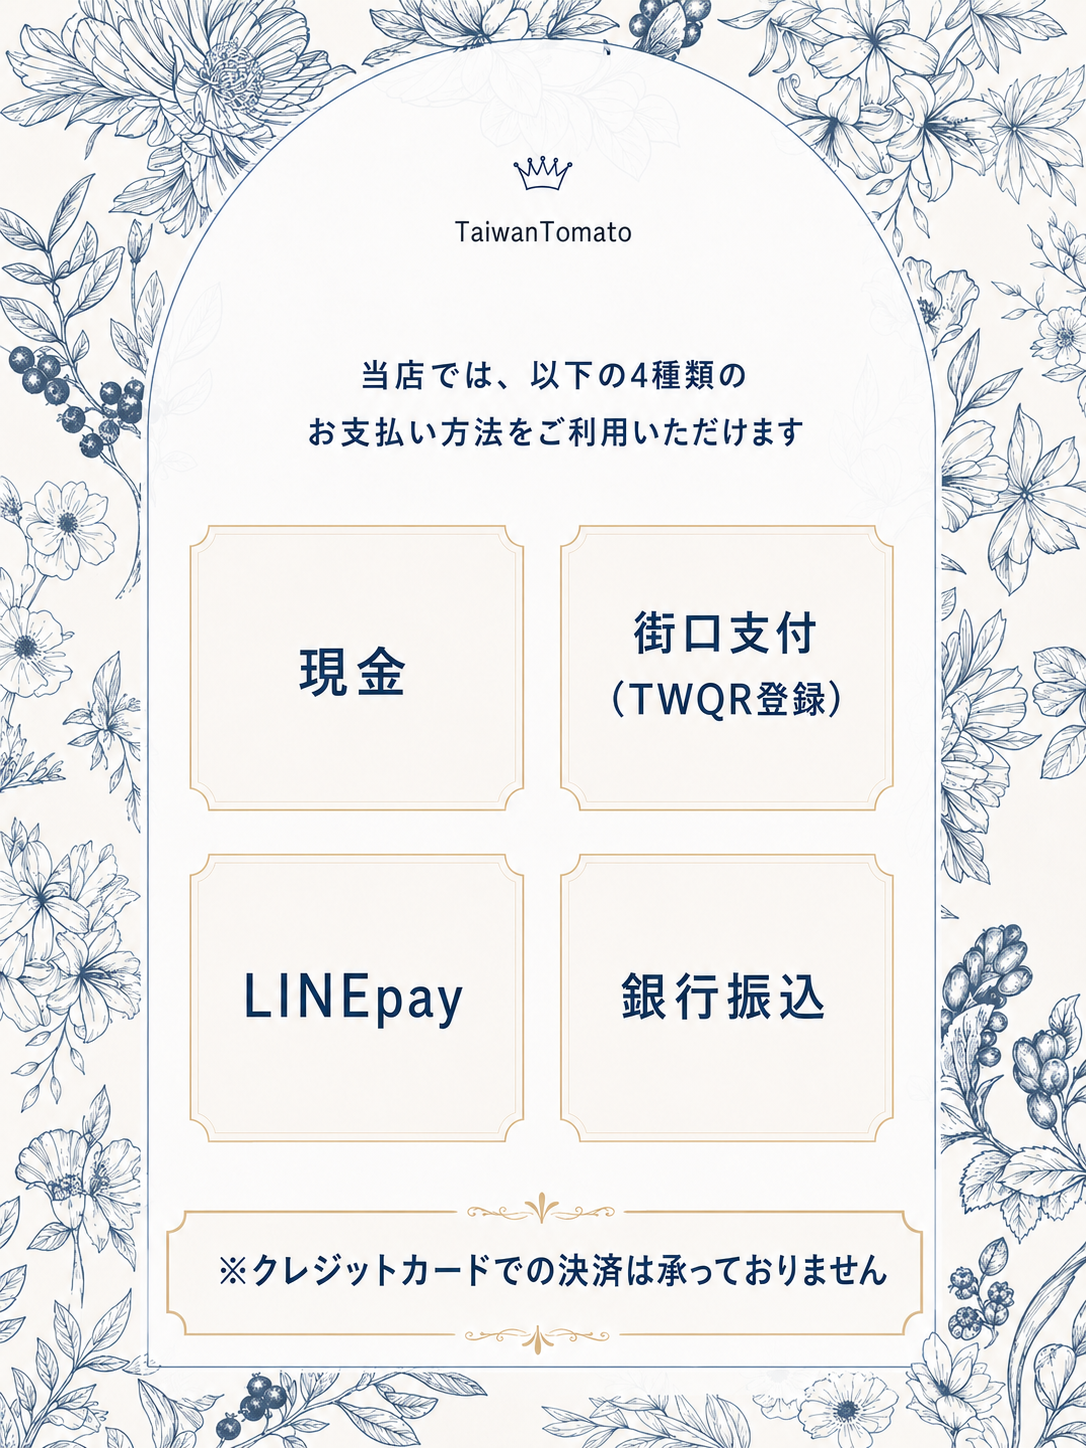
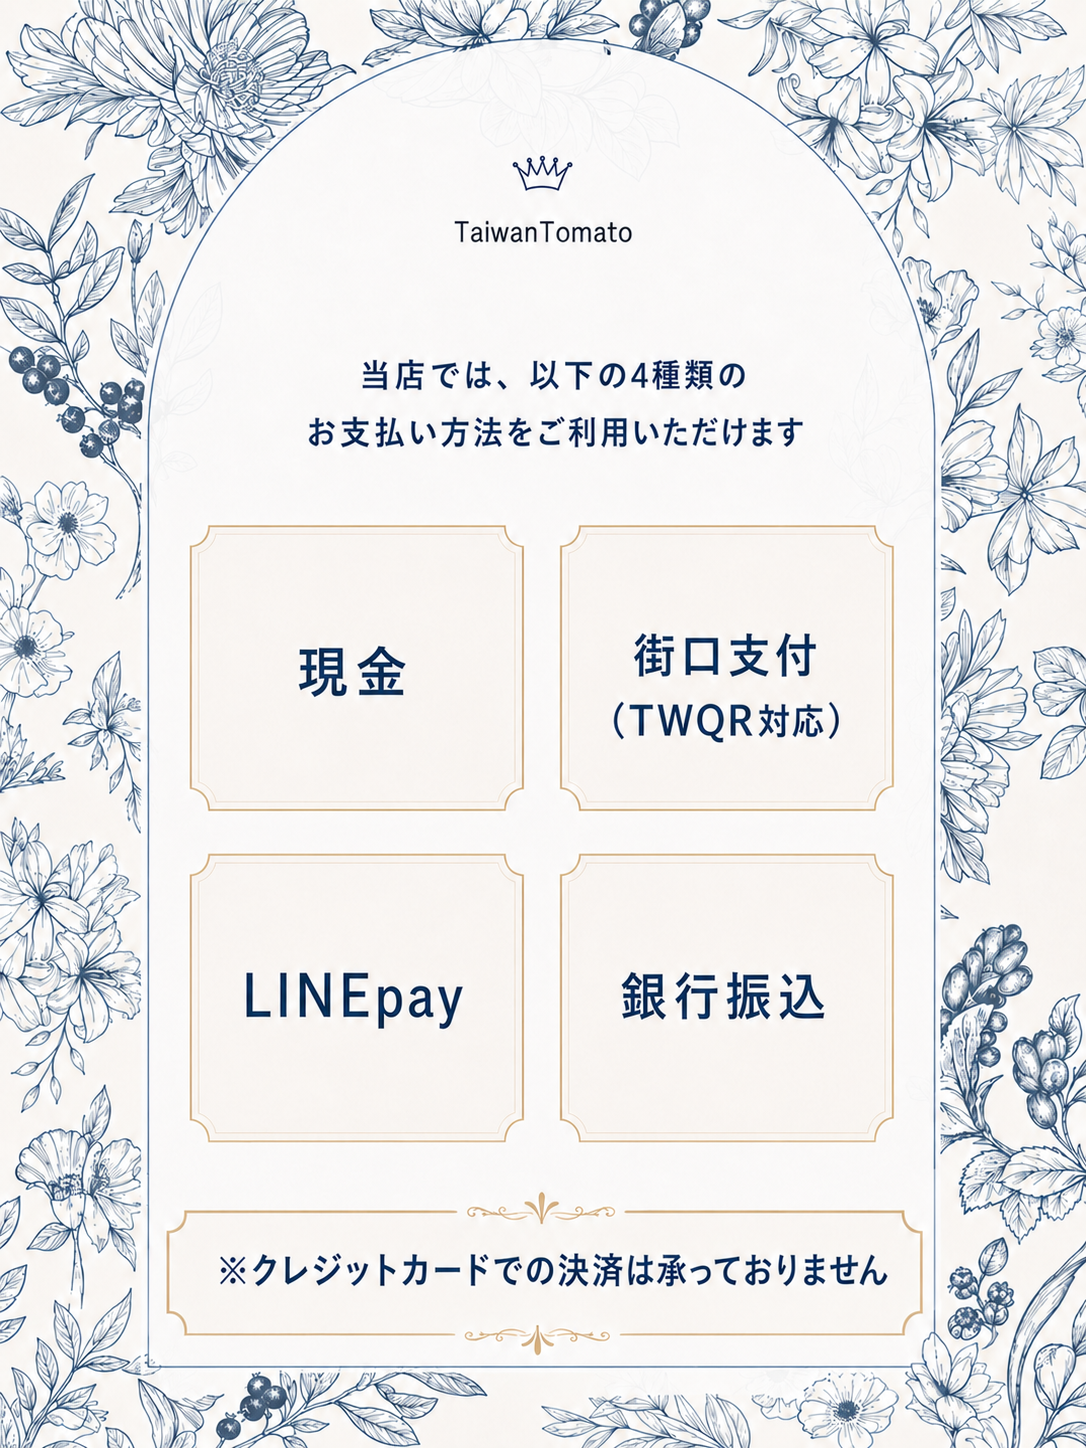
Add/update PaymentJP viewer page (1 img)

diff --git a/PaymentJP.html b/PaymentJP.html
@@ -9,7 +9,7 @@
 <meta property="og:site_name" content="TaiwanTomato">
 <meta property="og:title" content="お支払い方法">
 <meta property="og:description" content="TaiwanTomato">
-<meta property="og:image" content="https://ttsuperzuco.github.io/tt-price/PaymentJP-1.png?v=20260801112706">
+<meta property="og:image" content="https://ttsuperzuco.github.io/tt-price/PaymentJP-1.png?v=20260802222500">
 <meta name="twitter:card" content="summary_large_image">
 <style>
   html,body{margin:0;padding:0;background:#f4f1ea;}
@@ -20,7 +20,7 @@
 </head>
 <body>
   <div class="wrap">
-    <img src="PaymentJP-1.png?v=20260801112706" alt="お支払い方法 1">
+    <img src="PaymentJP-1.png?v=20260802222500" alt="お支払い方法 1">
   </div>
 </body>
 </html>
